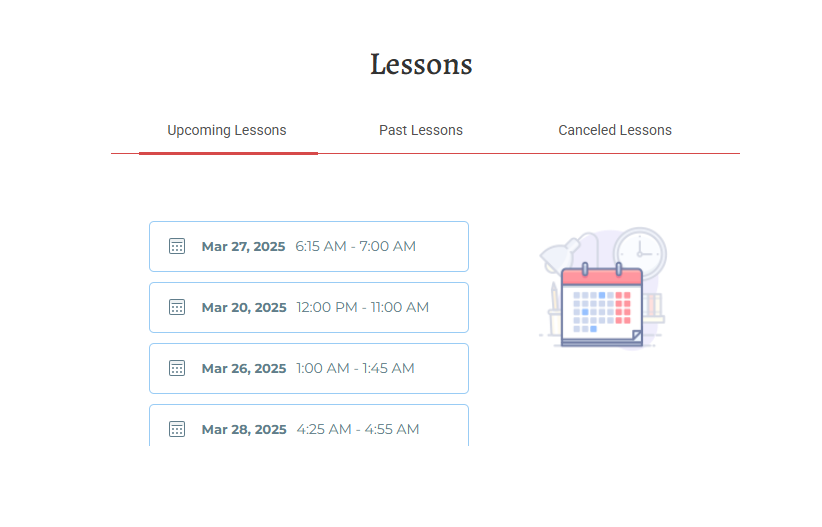
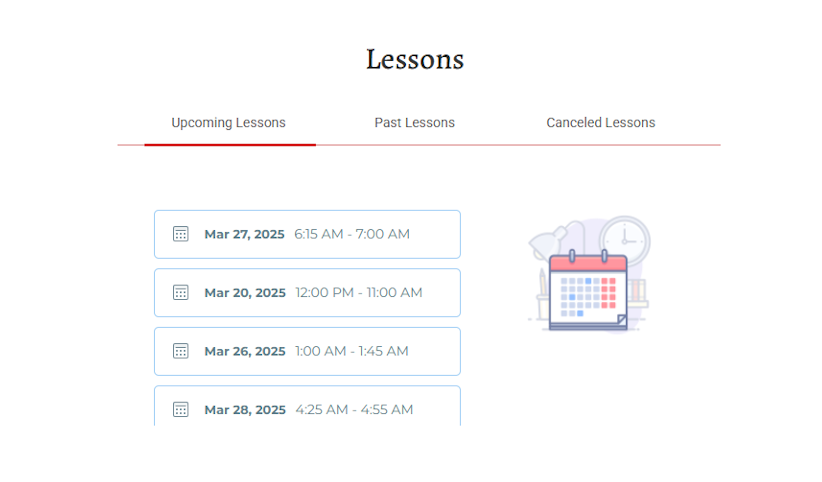
...

diff --git a/styles/features.css b/styles/features.css
@@ -4,15 +4,11 @@
 @import "_get-start.css";
 
 .feature-opening-bg {
-  height: 610px;
   width: 100%;
 }
 
 .feature-opening {
-  position: absolute;
-  top: 200px;
-  left: 0;
-  right: 0;
+  margin: 185px 0 230px 0;
   display: flex;
   flex-direction: column;
   align-items: center;
@@ -22,7 +18,6 @@
 
   .page {
     width: 90%;
-    height: 590px;
     max-width: 1305px;
     z-index: 1;
     display: flex;
@@ -52,11 +47,7 @@
       }
     }
   }
-
-
-
 }
-
 
 .feature-details {
   position: relative;
@@ -64,9 +55,10 @@
   justify-content: center;
 
   .inner-details {
-    margin-top: 385px;
+    max-width: 1270px;
     width: 100%;
-    max-width: 1200px;
+    padding: 0 35px;
+    box-sizing: border-box;
     margin-bottom: 220px;
 
     .main-title {
@@ -307,35 +299,41 @@
   margin-top: 0;
 }
 
-/*
+
 @media (max-width: 1536px) {
+
   .feature-opening {
-    top: 125px;
-    border: 1px solid #fff;
+    margin-top: 140px;
 
     .page {
-      height: 518px;
-
-      img {
-        width: 90%;
-      }
+      max-width: 850px;
     }
   }
 
   .feature-details {
     .inner-details {
-      margin-top: 235px;
-
       .more-details {
         .sticky-box {
-          top: 135px;
+          top: 120px;
         }
       }
     }
   }
 }
 
-@media (max-width: 1250px) {
+@media (max-width: 750px) {
+  .feature-opening {
+    .page {
+      .gradient-box {
+        display: none;
+      }
+    }
+  }
+}
+
+
+
+/* @media (max-width: 1250px) {
   .feature-details {
     .inner-details {
       .main-title {
@@ -343,12 +341,19 @@
       }
     }
   }
-}
+} */
 
-@media (max-width: 1100px) {
+/* @media (max-width: 1100px) {
+
   .feature-opening {
     .page {
-      img {
+      width: 750px;
+      z-index: 1;
+      position: relative;
+      border-radius: 20px;
+
+      .gradient-box {
+        display: none;
       }
     }
   }
@@ -365,20 +370,6 @@
       }
     }
   }
-
-  .feature-opening {
-    .page {
-      width: 1004px;
-      height: 591px;
-      z-index: 1;
-      position: relative;
-      border-radius: 20px;
-
-      .gradient-box {
-        display: none;
-      }
-    }
-  }
 }
 
 @media (max-width: 769px) {
@@ -389,6 +380,4 @@
       }
     }
   }
-}
-
-*/
+} */

diff --git a/tasks.html b/tasks.html
@@ -48,7 +48,7 @@
     <div class="page welcome">
       <picture class="image-wrap">
         <source srcset="./images/platform/feature1-small.png" media="(max-width: 750px)" />
-        <source srcset="./images/features/tasks/tasks-mini.png" media="(max-width: 1100px)" />
+        <source srcset="./images/features/tasks/tasks-mini.png" media="(max-width: 1536px)" />
         <div class="gradient-box"></div>
         <img src="./images/features/tasks/tasks1.png" />
       </picture>